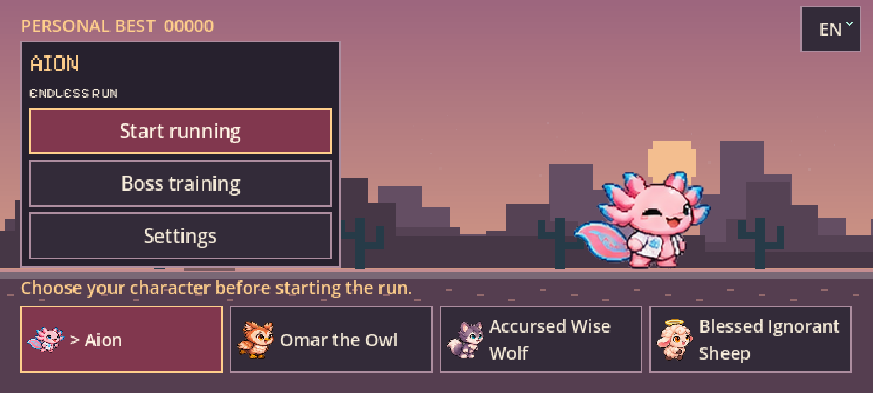
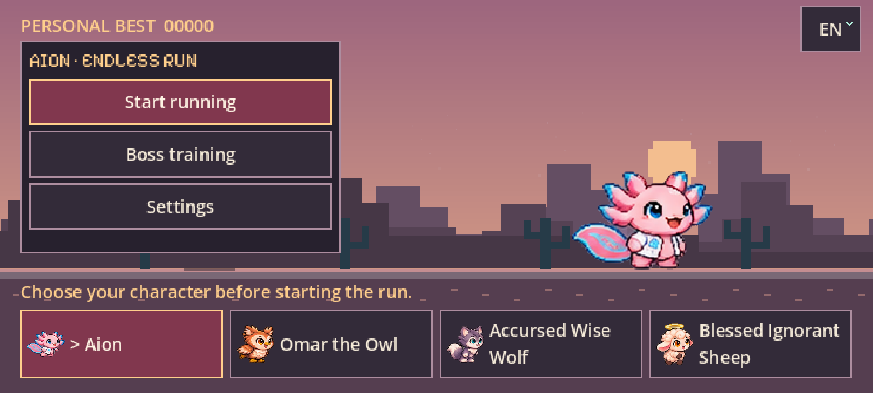
Fit real system-font labels and preserve the latest browser save on immediate reload

diff --git a/packaging/web_storage.js b/packaging/web_storage.js
@@ -1,0 +1,9 @@
+/* A synchronous small recovery copy complements Godot's asynchronous IDBFS.
+   Existing userfs/IndexedDB data is never cleared or unregistered. */
+(() => {
+ const key='aion-runner-save-v1';
+ window.AionStorage={
+  read(){try{const p=JSON.parse(localStorage.getItem(key)||'null');return p&&p.schema===1&&Number.isSafeInteger(p.revision)&&p.revision>0&&typeof p.config==='string'&&p.config.length<=65536?p.config:''}catch(_){return ''}},
+  write(config,revision){try{if(typeof config!=='string'||config.length>65536||!Number.isSafeInteger(revision))return false;localStorage.setItem(key,JSON.stringify({schema:1,revision,config}));return true}catch(_){return false}}
+ };
+})();

diff --git a/tests/test_web_packaging.py b/tests/test_web_packaging.py
@@ -1,5 +1,5 @@
 """Contract tests for the generated boot boundary, independent of the engine."""
-import hashlib,importlib.util,json,re,shutil,tempfile,unittest
+import hashlib,importlib.util,json,re,shutil,tempfile,unittest,subprocess
 from pathlib import Path
 ROOT=Path(__file__).resolve().parents[1]
 spec=importlib.util.spec_from_file_location('aion_web_updates',ROOT/'packaging/web_updates.py');web=importlib.util.module_from_spec(spec);spec.loader.exec_module(web)
@@ -7,7 +7,7 @@ class ExportContract(unittest.TestCase):
  def setUp(self):
   self.temp=tempfile.TemporaryDirectory();self.root=Path(self.temp.name);(self.root/'build/web').mkdir(parents=True);(self.root/'packaging').mkdir();self.out=self.root/'build/web'
   (self.root/'project.godot').write_text('config/version="0.12.0"')
-  for name in ['web_update.js','web_worker.js','web_boot.js','web_splash.html','web_accessibility.js']:shutil.copy2(ROOT/'packaging'/name,self.root/'packaging'/name)
+  for name in ['web_update.js','web_worker.js','web_boot.js','web_splash.html','web_accessibility.js','web_storage.js']:shutil.copy2(ROOT/'packaging'/name,self.root/'packaging'/name)
   (self.root/'assets').mkdir()
   for name in ['fragaria-strawberry.png','PixelifySans.ttf']:(self.root/'assets'/name).write_bytes(b'brand fixture')
   for name,data in [('index.js',b'engine'),('index.wasm',b'\0asm\1\0\0\0'),('index.pck',b'GDPC'+bytes(60))]:(self.out/name).write_bytes(data)
@@ -27,6 +27,18 @@ class ExportContract(unittest.TestCase):
   self.assertEqual(info['index.html']['sha256'],hashlib.sha256((self.out/'index.html').read_bytes()).hexdigest())
  def test_engine_cannot_register_a_parallel_worker(self):
   web.prepare_web_export(self.root);s=(self.out/'index.html').read_text();self.assertIn('"serviceWorker":""',s);self.assertIn("addEventListener('aion-game-started',registerOffline,{once:true})",s)
+ @unittest.skipUnless(shutil.which('node'), 'Node is used only for the isolated browser-storage contract')
+ def test_synchronous_recovery_copy_rejects_corruption_and_denied_storage(self):
+  code=(ROOT/'packaging/web_storage.js').read_text()
+  script="""const vm=require('node:vm'),assert=require('node:assert/strict');let saved=null;
+  const box={window:{},localStorage:{getItem:()=>saved,setItem:(_,v)=>{saved=v}}};vm.runInNewContext(SOURCE,box);
+  const api=box.window.AionStorage;assert.equal(api.read(),'');assert.equal(api.write('[prefs]\\ntheme_mode=\\"light\\"',1234),true);
+  assert.equal(api.read(),'[prefs]\\ntheme_mode=\\"light\\"');saved='{bad json';assert.equal(api.read(),'');
+  saved=JSON.stringify({schema:2,revision:4,config:'x'});assert.equal(api.read(),'');
+  box.localStorage.getItem=()=>{throw Error('denied')};box.localStorage.setItem=()=>{throw Error('quota')};
+  assert.equal(api.read(),'');assert.equal(api.write('x',3),false);assert.equal(api.write('x',NaN),false);
+  """.replace('SOURCE',json.dumps(code))
+  subprocess.run(['node','-e',script],check=True)
  def test_unknown_engine_template_fails_build(self):
   (self.out/'index.html').write_text(self.html.replace('engine.startGame({','engine.otherStart({'))
   with self.assertRaises(RuntimeError):web.prepare_web_export(self.root)

diff --git a/packaging/web_updates.py b/packaging/web_updates.py
@@ -14,7 +14,7 @@ def prepare_web_export(root: Path) -> None:
     output = root / 'build/web'
     version = re.search(r'config/version="([^"]+)"', (root / 'project.godot').read_text())[1]
     source = Path(__file__).read_bytes() + (root / 'packaging/web_update.js').read_bytes() + (root / 'packaging/web_worker.js').read_bytes() + (root / 'packaging/web_boot.js').read_bytes()
-    source += (root/'packaging/web_splash.html').read_bytes() + (root/'packaging/web_accessibility.js').read_bytes()
+    source += (root/'packaging/web_splash.html').read_bytes() + (root/'packaging/web_accessibility.js').read_bytes() + (root/'packaging/web_storage.js').read_bytes()
     digest = hashlib.sha256(source)
     for name in ['fragaria-strawberry.png','PixelifySans.ttf']:
         digest.update((root/'assets'/name).read_bytes())
@@ -41,7 +41,7 @@ def prepare_web_export(root: Path) -> None:
     assets = {name:{'bytes':(output/name).stat().st_size,'sha256':hashlib.sha256((output/name).read_bytes()).hexdigest()} for name in names.values()}
     # The updater initializes before Godot. It marks modern clients so a new
     # worker never interrupts their active runs, and exposes an explicit button.
-    script = (root / 'packaging/web_accessibility.js').read_text() + '\n' + (root / 'packaging/web_update.js').read_text().replace('__BUILD__', build).replace('__VERSION__', version)
+    script = (root/'packaging/web_storage.js').read_text() + '\n' + (root / 'packaging/web_accessibility.js').read_text() + '\n' + (root / 'packaging/web_update.js').read_text().replace('__BUILD__', build).replace('__VERSION__', version)
     html = html.replace('"serviceWorker":"index.service.worker.js"', '"serviceWorker":""')
     # Rewrite the exported call before injecting the loader's own engine call.
     if html.count('engine.startGame({') != 1:

diff --git a/tests/browser_upgrade.py b/tests/browser_upgrade.py
@@ -141,10 +141,10 @@ with tempfile.TemporaryDirectory(prefix='aion-upgrade-') as tmp:
         page.wait_for_selector('#aion-update', timeout=90000)
         check(page.url == current_url and canvas.get_attribute('data-state') == 'running', 'Subsequent update offers a button without interrupting an active run')
         page.screenshot(path=str(args.evidence/'update-available.png'))
+        page.evaluate("""()=>{sessionStorage.removeItem('aion-test-paused');new MutationObserver(()=>{if(document.querySelector('canvas').dataset.state==='paused')sessionStorage.setItem('aion-test-paused','yes')}).observe(document.querySelector('canvas'),{attributes:true})}""")
         page.locator('#aion-update').click()
-        page.wait_for_selector('canvas[data-state="paused"]')
         ready()
-        check('test-next-build' in page.url and canvas.get_attribute('data-character') == 'owl', 'Update button saves, pauses and opens the new shell with preferences intact')
+        check(page.evaluate("sessionStorage.getItem('aion-test-paused')")=='yes' and 'test-next-build' in page.url and canvas.get_attribute('data-character') == 'owl', 'Update button saves, pauses and opens the new shell with preferences intact')
         check(not errors, 'No uncaught browser errors during legacy migration or offline updates')
         browser.close()
     server.shutdown()

diff --git a/tests/browser_aionia.py b/tests/browser_aionia.py
@@ -57,9 +57,9 @@ with sync_playwright() as pw:
       }db.close();
     }return out;
   }""")
-  print('PERSISTED_BEFORE_WAIT',name,persisted,flush=True)
+  print('PERSISTED_BEFORE_WAIT',name,persisted,'MEMORY',d().get('saveObservation'),flush=True)
   # Readbacks follow a genuine save and fresh engine/IndexedDB load.
-  wait('[data-theme="light"][data-text-scale="1.0"][data-ui-ready="true"]');page.wait_for_timeout(2300);page.reload();wait('[data-page="main"][data-ui-ready="true"]')
+  wait('[data-theme="light"][data-text-scale="1.0"][data-ui-ready="true"]');check(page.evaluate('JSON.parse(localStorage.getItem("aion-runner-save-v1")).schema===1'),name+': a real synchronous recovery copy exists before immediate reload');page.reload();wait('[data-page="main"][data-ui-ready="true"]')
   check(d()['theme']=='light' and d()['fontMode']=='system' and d()['textScale']=='1.0',name+': chosen theme/font/text settings survive a real reload '+str({k:d().get(k) for k in ['theme','fontMode','textScale']}))
   semantic('Settings');option('Option_theme_dark');page.locator('#aion-accessibility-controls').get_by_role('button',name=re.compile('^‹')).press('Enter');page.wait_for_timeout(150);wait('[data-page="main"]');page.screenshot(path=str(a.evidence/(name+'-dark-main.png')))
   ctx.close()

diff --git a/docs/evidence-v014/README.md b/docs/evidence-v014/README.md
@@ -1,11 +1,13 @@
 # AIONIA v1.4 · 0.14.0 doğrulaması
 
-Godot 4.6.3, 2539 kaynak/sahne kontrolü; 184 gerçek tarayıcı kontrolü; 5 web paket sözleşme testi. Yerel web derlemesi `cde88395991f575c`. Chromium ve gerçek masaüstü Gecko kullanıldı; telefon/tablet viewportları ve dokunma emüle edildi. Fiziksel Poco/Xbox/PS cihazı veya ekran okuyucu denendiği iddia edilmez.
+Godot 4.6.3, 2549 kaynak/sahne kontrolü; 190 gerçek tarayıcı kontrolü; 6 web paket sözleşme testi. Yerel web derlemesi `9bb15b0a19e43f88`. Chromium ve gerçek masaüstü Gecko kullanıldı; telefon/tablet viewportları ve dokunma emüle edildi. Fiziksel Poco/Xbox/PS cihazı veya ekran okuyucu denendiği iddia edilmez.
 
 Kaynak/sahne sonuçları `source/`, normal girdi ve salt okunur gözlemle alınan tarayıcı sonuçları `browser/`, gerçek görüntüler `screenshots/`. Kol cihazı Gamepad API düzeyinde sanaldır; dünya durumu değiştirilmez. Boss otomasyonu normal sanal kol girdilerini tarayıcı karesi içinde zamanlar. Birbirinden bağımsız dokunma vakaları gerçek menüden yeni koşu başlatır; kayıt/protokol beklemesinin doğal bir engele çarpmayı giriş arızası gibi göstermesi önlenir.
 
 `asset-integrity.json`: 40 oyun PNG'sinin tümü taban commit ile byte düzeyinde aynı. İlk 03fd1f4 referansından beri korunan anatomik hizalama/pafta kayıtları regresyon testlerindedir. Yeni kahraman çizimi yoktur. Sistem fontunun Web fallback'i gerçek ölçümde Open Sans SemiBold'dur; Pixelify logosu ayrı kalır.
 
-Aktarım/senkronizasyon notu: hızlı ayar değişimi sonrası bazı eski IndexedDB anlık görüntüleri gözlendi. Son atomik `save.tmp → save.cfg` adımından sonra resmi `JavaScriptBridge.force_fs_sync()` çağrılır. Motor kaynağında bu çağrı, devam eden aktarım bitince ele alınan `idb_needs_sync` bayrağını işaretler. Gerçek dosya/yenileme testi uygulanır; tek başına bunun tarayıcının tüm kapanış zamanlamalarını garanti ettiği söylenmez.
+Aktarım/senkronizasyon notu: hızlı ayar değişimi sonrası bazı eski IndexedDB anlık görüntüleri gözlendi. Mevcut ConfigFile/IndexedDB akışı yanında sürümlü küçük localStorage kurtarma kopyası, son ayarı eşzamanlı korur; daha yeni revizyon yüklenir, rekorlar/progress birleştirilir. Anında yeniden yükleme altı viewportta doğrulandı. Son atomik `save.tmp → save.cfg` adımından sonra ayrıca resmi `JavaScriptBridge.force_fs_sync()` çağrılır. Motor kaynağında bu çağrı, devam eden aktarım bitince ele alınan `idb_needs_sync` bayrağını işaretler. Gerçek dosya/yenileme testi uygulanır; tek başına bunun tarayıcının tüm kapanış zamanlamalarını garanti ettiği söylenmez.
 
 Kaynak commit'i hazırlık anında native CI ve yayın henüz çalışmamıştır. Bu çıktılar için sürümün `BUILD-RECEIPT.json` dosyası, GitHub Actions ve son Drive teslim raporu yetkilidir. iOS native imzası, macOS Developer ID/noter ve Windows Authenticode bu çalışmada sağlanmadı.
+
+İlk GitHub CI add2d59 üzerinde Çekçe koyun adının taşmasını yakaladı. Düzeltme, gerçek sahne ağacındaki Label ölçümünü ve iki alternatif sistem fontu regresyonunu kullanır. Bu ilk başarısız deneme saklanır; başarı gibi etiketlenmez. Browser sonuçlarında her süitin gerçek export kimliği ayrıca kayıtlıdır; kontrol/animasyon süitlerinin ilgili kodu son yerleşim/kayıt düzeltmesinde değişmedi.

diff --git a/FORGE.md b/FORGE.md
@@ -160,4 +160,6 @@ Manual portrait review exposed a clipped boss status label missed by the menu-bu
 
 ## 0.14.0 · AIONIA v1.4
 
-Normatif belge ve bağlı AER-001–013 kaydı okundu; sürümlü kaynak/hash ve tasarım/sanat/kontrol kararları eklendi. Kullanıcı iki yana bölünmüş düğmeleri seçti. Varsayılan koyu/sistem yazısı, light/system seçenekleri, büyütülmüş metin, azaltılmış dekorasyon, erişilebilir menü karşılıkları ve kol ayarları mevcut Godot altyapısına bağlandı. Kahraman PNG'leri korunur. Fragaria yükleyicisi ve sekiz kişilik arka kutlama tamamlandı. Kaynak kontrolü 2539, tarayıcı 184, paket sözleşmesi 5; fiziksel cihaz ve yayın sınırları `docs/AIONIA-QA.md` içinde. Native CI/yayın sonucu son makbuzda ayrı kaydedilir.
+Normatif belge ve bağlı AER-001–013 kaydı okundu; sürümlü kaynak/hash ve tasarım/sanat/kontrol kararları eklendi. Kullanıcı iki yana bölünmüş düğmeleri seçti. Varsayılan koyu/sistem yazısı, light/system seçenekleri, büyütülmüş metin, azaltılmış dekorasyon, erişilebilir menü karşılıkları ve kol ayarları mevcut Godot altyapısına bağlandı. Kahraman PNG'leri korunur. Fragaria yükleyicisi ve sekiz kişilik arka kutlama tamamlandı. Kaynak kontrolü 2549, tarayıcı 190, paket sözleşmesi 5; fiziksel cihaz ve yayın sınırları `docs/AIONIA-QA.md` içinde. Native CI/yayın sonucu son makbuzda ayrı kaydedilir.
+
+0.14 son düzeltme: CI font farkı için gerçek Label ölçümü, DejaVu/Liberation regresyonu; hızlı yenilemeye karşı sürümlü senkron browser kurtarma kopyası. Güncel yerel kontrol 2549 kaynak/sahne + 190 browser + 6 paket sözleşmesidir.

diff --git a/docs/RELEASE.md b/docs/RELEASE.md
@@ -6,7 +6,7 @@ Kullanıcının seçtiği bölünmüş telefon kontrolleri: solda Zıpla, sağda
 
 Siyah Fragaria açılışı gerçek ilerlemeye bağlı on segmentli çubukla web ve native sahnede. Çilek kutlaması arka planda büyük FRAGARIA ve sekiz mevcut kutlama kimliği kullanır; ödül vermez. Kahraman çizimleri değiştirilmez. Firefox PCK doğrulama, eski worker güncellemesi ve çevrimdışı kayıtlar korunur; son atomik ayar taşımasından sonra açık FS senkronizasyonu istenir.
 
-Kaynak doğrulaması: 2.539 sahne/model kontrolü, 184 gerçek tarayıcı kontrolü ve 5 paket sözleşme testi. [Kapsam ve NOT TESTED alanları](AIONIA-QA.md). Paket makbuzu gerçek native CI sonuçlarına bağlanır; testten önce yayın başarılı denmez.
+Kaynak doğrulaması: 2.549 sahne/model kontrolü, 190 gerçek tarayıcı kontrolü ve 6 paket sözleşme testi. [Kapsam ve NOT TESTED alanları](AIONIA-QA.md). Paket makbuzu gerçek native CI sonuçlarına bağlanır; testten önce yayın başarılı denmez.
 
 ## İndirme / platform
 
